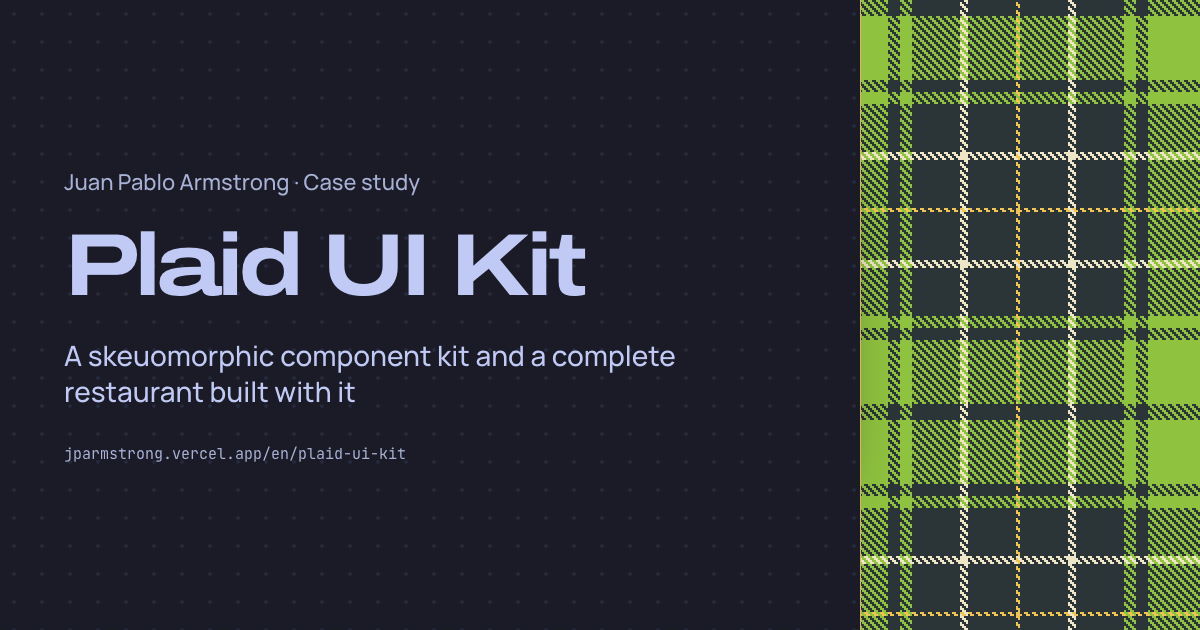
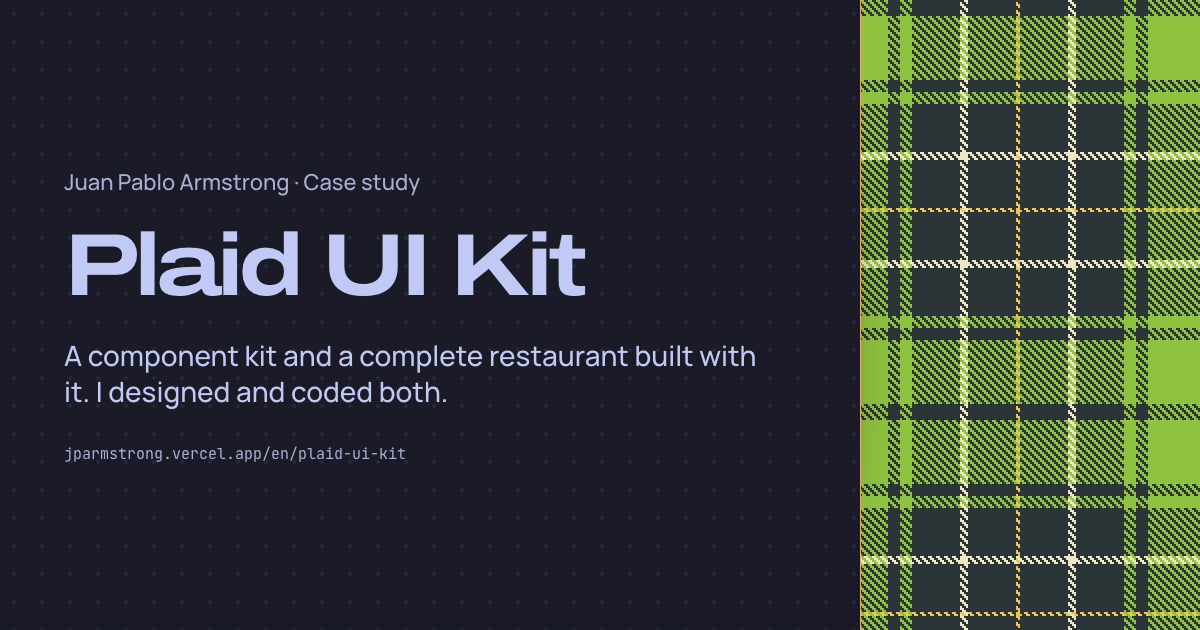
feat(plaid): nuevo texto del caso de estudio, pantallas originales de iClub y bloque «Qué muestra»
- Hero dice qué es y quién lo hizo; el esqueumorfismo se explica una vez en «El origen».
- «El origen» cuenta que diseñé toda la interfaz de iClub (2011–2012) y la reconstruí con código, con dos pantallas del diseño original.
- Nuevo bloque con cifras reales (63 pruebas unitarias, 16 specs de Playwright, 27 paneles) y enlace al caso VecinoClub.
- Se quitan las menciones al flujo con agentes de IA.
- Tarjeta de la home y Markdown alineados; imágenes OG regeneradas.

Changed region(s): [[0.0617, 0.5429, 0.6475, 0.6635]]

diff --git a/src/content/plaid.ts b/src/content/plaid.ts
@@ -16,28 +16,42 @@ export const screens = [
   { id: 'kit-slate', width: 1440, height: 900 },
 ] as const;
 
+/** Pantallas del diseño original de iClub (2011), a 1024 × 600 como la tablet. */
+export const originScreens = [
+  { id: 'iclub-2011-inicio', width: 1024, height: 600 },
+  { id: 'iclub-2011-menu', width: 1024, height: 600 },
+] as const;
+
 export const plaid = {
   es: {
     title: 'Plaid UI Kit · Caso de estudio · Juan Pablo Armstrong',
-    description: 'Caso de estudio de Plaid UI Kit: un kit de componentes esqueumórficos sobre UI SDK y una demo de restaurante hecha con él.',
+    description: 'Plaid UI Kit: un kit de componentes y una app de restaurante que reconstruyen iClub, una app de pedidos que diseñé en 2011. Diseño, código y pruebas de Juan Pablo Armstrong.',
     kicker: 'Caso de estudio · Kit de UI y demo · Código abierto',
     heroTitle: 'Plaid UI Kit',
-    heroSubtitle: 'Un kit de componentes esqueumórficos y un restaurante completo hecho con él',
+    heroSubtitle: 'Un kit de componentes y un restaurante completo hecho con él. Diseñé y programé los dos.',
     links: [
       { label: 'Abrir la demo', href: demoUrl },
       { label: 'Ver el kit', href: kitUrl },
       { label: 'Código en GitHub', href: repoUrl },
     ],
-    badges: ['[ CÓDIGO ABIERTO ]', '2 pieles', '3 roles'],
+    badges: ['[ CÓDIGO ABIERTO ]', '63 pruebas unitarias', '16 specs de Playwright', 'ES / EN'],
     origin: {
       label: 'El origen',
-      text: 'iClub fue una app Android de pedidos para restaurantes en tablet. Entre diciembre de 2011 y abril de 2012 diseñé su interfaz como diseñador UI freelance. Plaid la reconstruye desde cero con herramientas actuales: la misma idea de pedir desde la mesa, con la estética esqueumórfica de esos años, antes del diseño plano, elegida a propósito.',
+      text: [
+        'iClub fue una app Android para pedir desde la mesa en restaurantes, con tablets. Entre diciembre de 2011 y abril de 2012 diseñé toda su interfaz como diseñador UI freelance.',
+        'Catorce años después la reconstruí, esta vez también con el código. Mantuve el estilo de entonces, el esqueumorfismo: pantallas que imitan materiales reales como la madera, el cuero o la tela, con relieve y sombras. Era el estilo habitual antes de que se impusiera el diseño plano.',
+      ],
+      screens: {
+        'iclub-2011-inicio': { alt: 'Pantalla de inicio de iClub en 2011: fondo de madera, botones de Menú, Tragos y Promos, y barra inferior con Opciones, Perfil y Garzón.' },
+        'iclub-2011-menu': { alt: 'Carta de iClub en 2011: lista de sándwiches con foto, ingredientes, precio y casilla para elegir, sobre fondo de madera.' },
+      },
+      caption: 'Diseño original, 2011',
       linkLabel: 'Ver iClub en Behance',
     },
     what: {
       label: 'Qué hay',
       demo: { title: 'Restaurant El Clan', text: 'La demo. El comensal pide desde la mesa, sigue su pedido y paga la cuenta (propina y división incluidas). El garzón ve la sala, mueve y une mesas y cobra. La cocina recibe las comandas en un riel. Hay libro de reservas, pizarra de especiales y paleta de comandos (⌘K).' },
-      kit: { title: 'Plaid UI Kit', text: 'La galería de componentes. Cada pieza en todos sus estados, con los componentes de UI SDK que usa, y un diseñador de tartán.' },
+      kit: { title: 'Plaid UI Kit', text: 'La galería de componentes: 27 paneles que muestran cada pieza en todos sus estados y qué componente de UI SDK usa por dentro. Incluye un diseñador de tartán para armar el patrón escocés que da nombre al kit.' },
     },
     gallery: {
       label: 'La demo y el kit',
@@ -53,40 +67,57 @@ export const plaid = {
     design: [
       'Dos pieles, Plaid (táctil) y Slate (plana, con modo claro y oscuro), sobre los mismos componentes. Cambiar de piel o de idioma nunca mueve ni cambia de tamaño un control.',
       'Un solo verde por tema; todo el resto de la paleta se deriva de él.',
-      'Tokens con nombres textiles donde la metáfora es honesta: urdimbre (--warp), trama (--weft), orilla (--selvedge), costura (--stitch) e hilos para cada tipo de llamado.',
-      'Las reglas viven en DESIGN.md, cada una con su porqué.',
+      'Los tokens llevan nombres de telar cuando el nombre describe bien lo que hacen: urdimbre (--warp), trama (--weft), orilla (--selvedge), costura (--stitch) e hilos para cada tipo de llamado.',
+      'Las reglas están escritas en DESIGN.md, cada una con su razón.',
     ],
     builtLabel: 'Cómo está hecho',
     built: [
-      'Vite, React 19 y TypeScript. El comportamiento (menús, diálogos, tooltips, toasts, selects, campos numéricos, paleta de comandos) viene de UI SDK de Vercel; Plaid solo pone la piel.',
-      'Pruebas que vigilan el diseño, no solo la lógica: Playwright mide posición y tamaño de los controles en cada piel, idioma y esquema, y un test rechaza cualquier color fuera de los tokens.',
-      'Construido con agentes de IA bajo mi dirección: yo definí el diseño, las reglas y la revisión; los agentes implementaron en ramas y PRs revisados.',
+      'Vite, React 19 y TypeScript. UI SDK de Vercel aporta el comportamiento accesible (menús, diálogos, tooltips, toasts, selects, campos numéricos, paleta de comandos); Plaid pone solo la apariencia.',
+      'Las pruebas también revisan el diseño. Playwright mide la posición y el tamaño de los controles en cada piel, idioma y modo claro u oscuro, y un test falla si aparece un color que no sale de los tokens.',
     ],
+    shows: {
+      label: 'Qué muestra',
+      items: [
+        'La interfaz de 2011 y su reconstrucción son mías, del diseño al código.',
+        'Reglas de diseño comprobadas en cada cambio: 63 pruebas unitarias y 16 specs de Playwright que miden el layout.',
+        'Un kit completo: 27 paneles en la galería, dos pieles y dos idiomas, español e inglés.',
+      ],
+      cloud: 'Mi trabajo en cloud está en VecinoClub, una plataforma serverless en producción en AWS.',
+      cloudLink: 'Ver el caso VecinoClub',
+    },
     stackLabel: 'Stack',
     crumb: 'Plaid UI Kit',
     footerCta: 'Abrir la demo',
   },
   en: {
     title: 'Plaid UI Kit · Case Study · Juan Pablo Armstrong',
-    description: 'Plaid UI Kit case study: a skeuomorphic component kit built on UI SDK and a restaurant demo made with it.',
+    description: 'Plaid UI Kit: a component kit and a restaurant app that rebuild iClub, an ordering app I designed in 2011. Design, code and tests by Juan Pablo Armstrong.',
     kicker: 'Case study · UI kit and demo · Open source',
     heroTitle: 'Plaid UI Kit',
-    heroSubtitle: 'A skeuomorphic component kit and a complete restaurant built with it',
+    heroSubtitle: 'A component kit and a complete restaurant built with it. I designed and coded both.',
     links: [
       { label: 'Open the demo', href: demoUrl },
       { label: 'View the kit', href: kitUrl },
       { label: 'Code on GitHub', href: repoUrl },
     ],
-    badges: ['[ OPEN SOURCE ]', '2 skins', '3 roles'],
+    badges: ['[ OPEN SOURCE ]', '63 unit tests', '16 Playwright specs', 'ES / EN'],
     origin: {
       label: 'The origin',
-      text: 'iClub was an Android ordering app for restaurants on tablets. From December 2011 to April 2012 I designed its interface as a freelance UI designer. Plaid rebuilds it from scratch with current tools: the same idea of ordering from the table, with the skeuomorphic look of those years, before flat design, chosen on purpose.',
+      text: [
+        'iClub was an Android app for ordering from the table in restaurants, on tablets. From December 2011 to April 2012 I designed its whole interface as a freelance UI designer.',
+        'Fourteen years later I rebuilt it, this time writing the code as well. I kept the style of the time, skeuomorphism: screens that imitate real materials like wood, leather or cloth, with depth and shadows. It was the usual look before flat design took over.',
+      ],
+      screens: {
+        'iclub-2011-inicio': { alt: 'iClub home screen in 2011: wood background, Menu, Drinks and Promos buttons, and a bottom bar with Options, Profile and Waiter.' },
+        'iclub-2011-menu': { alt: 'iClub menu in 2011: a list of sandwiches with photo, ingredients, price and a checkbox to pick each one, on a wood background.' },
+      },
+      caption: 'Original design, 2011',
       linkLabel: 'See iClub on Behance',
     },
     what: {
       label: 'What’s in it',
       demo: { title: 'Restaurant El Clan', text: 'The demo. The diner orders from the table, follows the order and pays the bill (tip and split included). The waiter sees the floor, moves and joins tables, and takes payment. The kitchen gets tickets on a rail. There is a reservation book, a specials board and a command palette (⌘K).' },
-      kit: { title: 'Plaid UI Kit', text: 'The component gallery. Every piece in all its states, with the UI SDK components it uses, and a tartan designer.' },
+      kit: { title: 'Plaid UI Kit', text: 'The component gallery: 27 panels that show every piece in all its states and which UI SDK component it uses underneath. It includes a tartan designer to build the plaid pattern the kit is named after.' },
     },
     gallery: {
       label: 'The demo and the kit',
@@ -102,15 +133,24 @@ export const plaid = {
     design: [
       'Two skins, Plaid (tactile) and Slate (flat, with light and dark modes), on the same components. Switching skin or language never moves or resizes a control.',
       'A single green per theme; the rest of the palette is derived from it.',
-      'Tokens with textile names where the metaphor is honest: warp (--warp), weft (--weft), selvedge (--selvedge), stitch (--stitch) and threads for each kind of call.',
-      'The rules live in DESIGN.md, each with its reason.',
+      'Tokens take weaving names when the name describes what they do: warp (--warp), weft (--weft), selvedge (--selvedge), stitch (--stitch) and threads for each kind of call.',
+      'The rules are written down in DESIGN.md, each with its reason.',
     ],
     builtLabel: 'How it’s built',
     built: [
-      'Vite, React 19 and TypeScript. The behavior (menus, dialogs, tooltips, toasts, selects, number fields, command palette) comes from Vercel’s UI SDK; Plaid only adds the skin.',
-      'Tests that guard the design, not just the logic: Playwright measures the position and size of controls in every skin, language and color scheme, and a test rejects any color outside the tokens.',
-      'Built with AI agents under my direction: I defined the design, the rules and the review; the agents implemented in branches and reviewed PRs.',
+      'Vite, React 19 and TypeScript. Vercel’s UI SDK provides the accessible behavior (menus, dialogs, tooltips, toasts, selects, number fields, command palette); Plaid only adds the look.',
+      'The tests check the design too. Playwright measures the position and size of controls in every skin, language and light or dark mode, and one test fails if a color does not come from the tokens.',
     ],
+    shows: {
+      label: 'What it shows',
+      items: [
+        'The 2011 interface and its rebuild are both mine, from design to code.',
+        'Design rules checked on every change: 63 unit tests and 16 Playwright specs that measure the layout.',
+        'A complete kit: 27 panels in the gallery, two skins and two languages, Spanish and English.',
+      ],
+      cloud: 'My cloud work is VecinoClub, a serverless platform running in production on AWS.',
+      cloudLink: 'Read the VecinoClub case',
+    },
     stackLabel: 'Stack',
     crumb: 'Plaid UI Kit',
     footerCta: 'Open the demo',

diff --git a/src/content/home.ts b/src/content/home.ts
@@ -95,8 +95,8 @@ export const home = {
       },
       {
         title: 'Plaid UI Kit',
-        subtitle: 'Kit de componentes esqueumórficos y demo de restaurante · Código abierto',
-        description: 'Un kit de componentes esqueumórficos sobre UI SDK y un restaurante completo hecho con él: el comensal pide desde la mesa, el garzón atiende la sala y la cocina recibe las comandas.',
+        subtitle: 'Kit de componentes y app de restaurante · Código abierto',
+        description: 'La reconstrucción de iClub, una app de pedidos que diseñé en 2011, ahora con mi código: un kit de componentes y un restaurante completo donde el comensal pide desde la mesa, el garzón atiende la sala y la cocina recibe las comandas.',
         status: 'Código abierto',
         statusColor: 'blue',
         tags: ['React 19 + TS', 'UI SDK', 'Playwright', 'Vercel'],
@@ -180,8 +180,8 @@ export const home = {
       },
       {
         title: 'Plaid UI Kit',
-        subtitle: 'Skeuomorphic component kit and restaurant demo · Open source',
-        description: 'A skeuomorphic component kit built on UI SDK and a complete restaurant made with it: the diner orders from the table, the waiter runs the floor and the kitchen gets the tickets.',
+        subtitle: 'Component kit and restaurant app · Open source',
+        description: 'A rebuild of iClub, an ordering app I designed in 2011, now with my own code: a component kit and a complete restaurant where the diner orders from the table, the waiter runs the floor and the kitchen gets the tickets.',
         status: 'Open source',
         statusColor: 'blue',
         tags: ['React 19 + TS', 'UI SDK', 'Playwright', 'Vercel'],

diff --git a/src/lib/markdown.ts b/src/lib/markdown.ts
@@ -162,13 +162,17 @@ function plaidDoc(locale: Locale): Doc {
       `> ${t.heroSubtitle}. ${t.kicker}.`,
       list(t.links.map((l) => `[${l.label}](${l.href})`)),
       `## ${t.origin.label}`,
-      `${t.origin.text} [${t.origin.linkLabel}](${iclubUrl})`,
+      ...t.origin.text,
+      `[${t.origin.linkLabel}](${iclubUrl})`,
       `## ${t.what.label}`,
       list([t.what.demo, t.what.kit].map((x) => `**${x.title}:** ${x.text}`)),
       `## ${t.designLabel}`,
       list(t.design),
       `## ${t.builtLabel}`,
       list(t.built),
+      `## ${t.shows.label}`,
+      list(t.shows.items),
+      `${t.shows.cloud} [${t.shows.cloudLink}](${mdUrl(routes.proyecto[locale])})`,
       `## ${t.stackLabel}`,
       plaidStack.join(', '),
     ),
